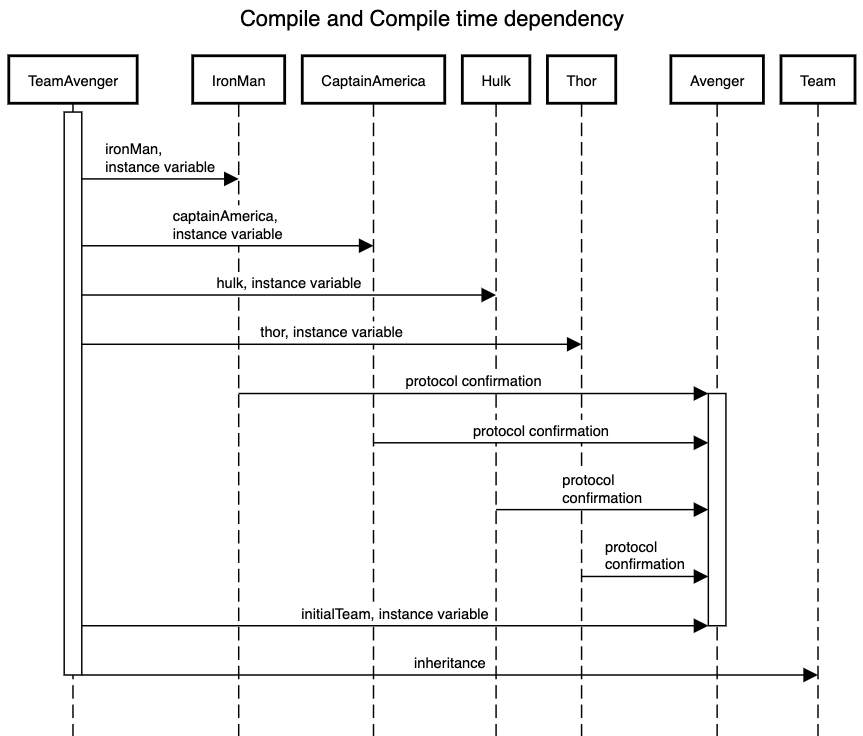
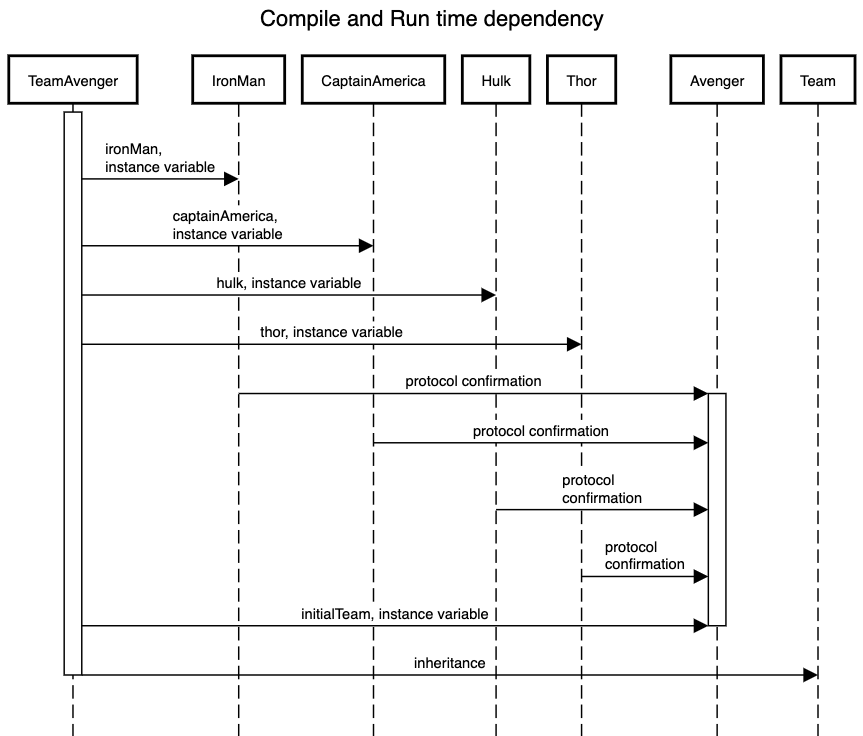
Fixing the image sequence title.
Dropping unused code.

Changed region(s): [[0.2711, 0.0, 0.7231, 0.0625]]

diff --git a/Protocol.playground/Pages/DIP.xcplaygroundpage/Contents.swift b/Protocol.playground/Pages/DIP.xcplaygroundpage/Contents.swift
@@ -58,16 +58,3 @@ class SimpleAvenger: Team{
 let simpleTeam = SimpleAvenger()
 simpleTeam.introduction()
 
-
-
-
-enum Position: String{
-    case Ground
-    case Top
-    case Air
-    case Jump
-}
-
-enum Action: String{
-    case Punch
-}
